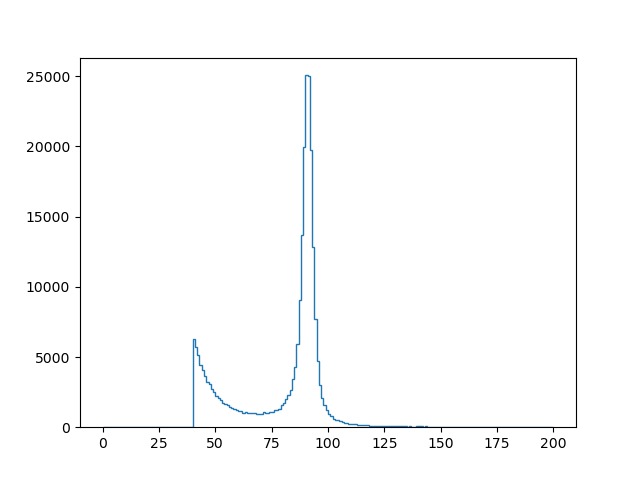
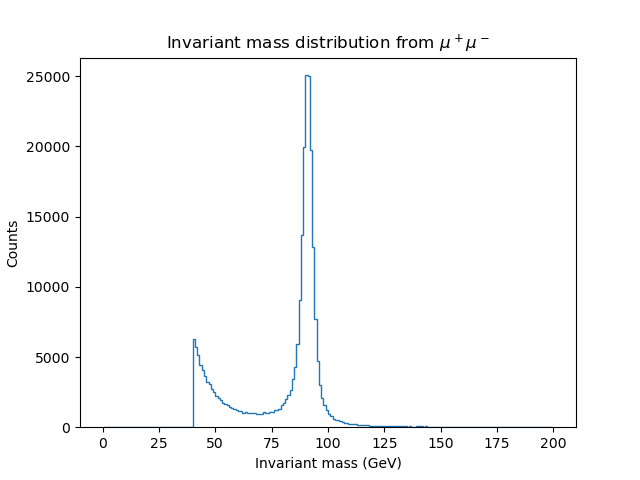
Added x/y axis labels and titles to the graphs

Changed region(s): [[0.25, 0.0625, 0.75, 0.125], [0.4062, 0.9375, 0.625, 1.0], [0.0, 0.4688, 0.0312, 0.5625]]

diff --git a/fast.py b/fast.py
@@ -5,7 +5,6 @@ import matplotlib.pyplot as plt
 
 restMass = 0.105658
 
-
 with uproot.open("/tmp/13TeV__2018__magnet_down_data__Z_candidates.root") as file:
   mup_PT = file["DecayTree"]["mup_PT"].array(library="np")/1000
   mup_ETA = file["DecayTree"]["mup_ETA"].array(library="np")
@@ -33,4 +32,7 @@ mum_E = np.sqrt(restMass**2 + mum_x**2 + mum_y**2 + mum_z**2)
 invMass = np.sqrt((mup_E + mum_E)**2 - (mup_x + mum_x)**2 - (mup_y + mum_y)**2 - (mup_z + mum_z)**2)
 
 plt.hist(invMass, bins = 200, range = [0, 200], histtype='step')
+plt.title("Invariant mass distribution from $\mu^+ \mu^-$")
+plt.ylabel("Counts")
+plt.xlabel("Invariant mass (GeV)")
 plt.savefig("zpeak_f.png")

diff --git a/slow.py b/slow.py
@@ -41,4 +41,7 @@ for entry in tree:
 
 
 plt.hist(invMassArray, bins = 200, range = [0, 200], histtype='step')
+plt.title("Invariant mass distribution from $\mu^+ \mu^-$")
+plt.ylabel("Counts")
+plt.xlabel("Invariant mass (GeV)")
 plt.savefig("zpeak_s.png")
